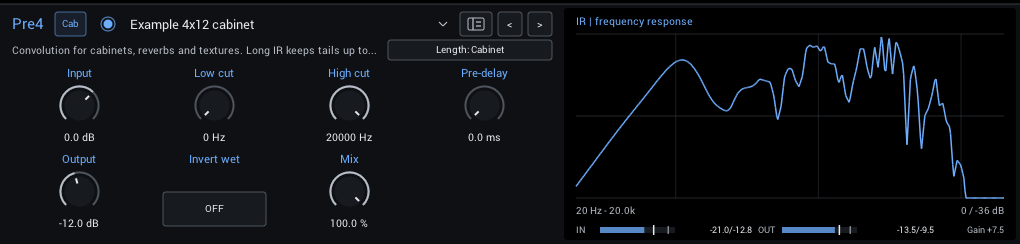
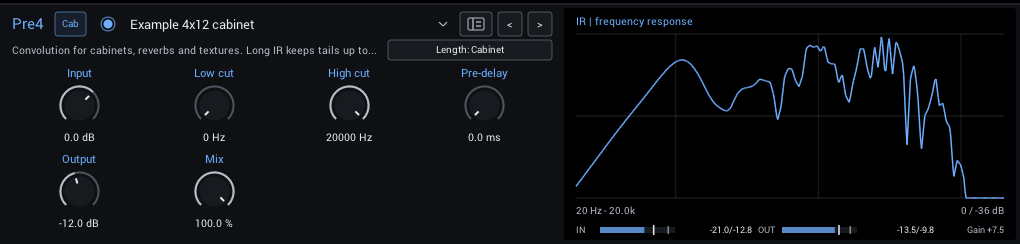
Remove wet polarity control from IR module

diff --git a/tests/IRControlsTests.h b/tests/IRControlsTests.h
@@ -5,62 +5,60 @@ void TestIRControls()
 {
   for (double rate : {44100., 48000., 96000.})
   {
-    // Delta IR: independent stereo dry paths and wet-only trims, inversion,
+    // Delta IR: independent stereo dry paths and wet-only trims,
     // blending and exact fractional pre-delay have a closed-form reference.
     for (double mix : {0., 25., 100.})
-      for (bool invert : {false, true})
-        for (double predelay : {0., 37.5})
+      for (double predelay : {0., 37.5})
+      {
+        auto prepared = std::make_unique<NAMStage::Prepared>();
+        prepared->effect = SlotEffect::CabinetIR;
+        AdaptiveIR::IRData data{{1.f}, rate};
+        prepared->ir = std::make_unique<AdaptiveIR>(data, rate, 512);
+        NAMStage stage;
+        stage.Publish(std::move(prepared));
+        stage.ResetStopped(rate, 512);
+        UtilityControls controls;
+        controls.irInput = 6.; controls.irMix = mix;
+        controls.irPredelay = predelay * 1000. / rate;
+        EQControls eq; eq.irLevel = -3.;
+        const double gain = std::pow(10., 3. * .05) * 48000. / rate;
+        std::array<double, 512> l{}, r{};
+        int position = 0;
+        for (int block = 0; block < 20; ++block)
         {
-          auto prepared = std::make_unique<NAMStage::Prepared>();
-          prepared->effect = SlotEffect::CabinetIR;
-          AdaptiveIR::IRData data{{1.f}, rate};
-          prepared->ir = std::make_unique<AdaptiveIR>(data, rate, 512);
-          NAMStage stage;
-          stage.Publish(std::move(prepared));
-          stage.ResetStopped(rate, 512);
-          UtilityControls controls;
-          controls.irInput = 6.; controls.irMix = mix; controls.irInvert = invert;
-          controls.irPredelay = predelay * 1000. / rate;
-          EQControls eq; eq.irLevel = -3.;
-          const double gain = (invert ? -1. : 1.) * std::pow(10., 3. * .05) * 48000. / rate;
-          std::array<double, 512> l{}, r{};
-          int position = 0;
-          for (int block = 0; block < 20; ++block)
+          const int count = std::array<int, 5>{1, 3, 127, 512, 64}[block % 5];
+          l.fill(0.); r.fill(0.);
+          if (!position) { l[0] = .25; r[0] = -.5; }
+          allocations = deletions = 0; tracking = true;
+          Eigen::internal::set_is_malloc_allowed(false);
+          stage.Process(l.data(), count, true, 30., -30., {}, eq, controls, r.data());
+          Eigen::internal::set_is_malloc_allowed(true);
+          tracking = false;
+          assert(stage.Latency() == 0 && allocations == 0 && deletions == 0);
+          for (int i = 0; i < count; ++i)
           {
-            const int count = std::array<int, 5>{1, 3, 127, 512, 64}[block % 5];
-            l.fill(0.); r.fill(0.);
-            if (!position) { l[0] = .25; r[0] = -.5; }
-            allocations = deletions = 0; tracking = true;
-            Eigen::internal::set_is_malloc_allowed(false);
-            stage.Process(l.data(), count, true, 30., -30., {}, eq, controls, r.data());
-            Eigen::internal::set_is_malloc_allowed(true);
-            tracking = false;
-            assert(stage.Latency() == 0 && allocations == 0 && deletions == 0);
-            for (int i = 0; i < count; ++i)
-            {
-              const int n = position + i;
-              const double wet = predelay == 0. ? (n == 0 ? 1. : 0.) : (n == 37 || n == 38 ? .5 : 0.);
-              const double expected = (n == 0 ? 1. - mix * .01 : 0.) + wet * gain * mix * .01;
-              assert(std::abs(l[i] - .25 * expected) < 2.e-7);
-              assert(std::abs(r[i] + .5 * expected) < 2.e-7);
-            }
-            position += count;
+            const int n = position + i;
+            const double wet = predelay == 0. ? (n == 0 ? 1. : 0.) : (n == 37 || n == 38 ? .5 : 0.);
+            const double expected = (n == 0 ? 1. - mix * .01 : 0.) + wet * gain * mix * .01;
+            assert(std::abs(l[i] - .25 * expected) < 2.e-7);
+            assert(std::abs(r[i] + .5 * expected) < 2.e-7);
           }
-          // Automation remains allocation-free, and bypass restores both dry channels.
-          controls.irInput = -36.; controls.irMix = 100. - mix;
-          controls.irPredelay = 500.; controls.irLowCut = 2000.; controls.irHighCut = 200.;
-          controls.irInvert = !invert;
-          for (int b = 0; b < 4; ++b)
-          {
-            l.fill(.1); r.fill(-.2);
-            allocations = deletions = 0; tracking = true;
-            stage.Process(l.data(), 512, false, 0., 0., {}, eq, controls, r.data());
-            tracking = false;
-            assert(allocations == 0 && deletions == 0);
-            if (b > 0)
-              for (int i = 0; i < 512; ++i) assert(l[i] == .1 && r[i] == -.2);
-          }
+          position += count;
         }
+        // Automation remains allocation-free, and bypass restores both dry channels.
+        controls.irInput = -36.; controls.irMix = 100. - mix;
+        controls.irPredelay = 500.; controls.irLowCut = 2000.; controls.irHighCut = 200.;
+        for (int b = 0; b < 4; ++b)
+        {
+          l.fill(.1); r.fill(-.2);
+          allocations = deletions = 0; tracking = true;
+          stage.Process(l.data(), 512, false, 0., 0., {}, eq, controls, r.data());
+          tracking = false;
+          assert(allocations == 0 && deletions == 0);
+          if (b > 0)
+            for (int i = 0; i < 512; ++i) assert(l[i] == .1 && r[i] == -.2);
+        }
+      }
     const auto magnitude = [&](double hz, double low, double high) {
       SlotIR processor;
       processor.Reset(rate);

diff --git a/NeuralAmpModeler/SlotIR.h b/NeuralAmpModeler/SlotIR.h
@@ -18,7 +18,7 @@ public:
     mWrite = 0;
     mHP.Reset(); mLP.Reset();
     mLow = 0.; mHigh = 20000.; mTime = 0.;
-    mHPMix = mLPMix = 0.; mPolarity = 1.;
+    mHPMix = mLPMix = 0.;
     mCounter = 0; mFirst = true;
     Update();
   }
@@ -27,10 +27,9 @@ public:
     const double low = std::clamp(c.irLowCut, 0., 2000.);
     const double high = std::clamp(c.irHighCut, 200., 20000.);
     const double time = std::clamp(c.irPredelay, 0., 500.) * .001 * mRate;
-    const double polarity = c.irInvert ? -1. : 1.;
     if (mFirst)
     {
-      mLow = low; mHigh = high; mTime = time; mPolarity = polarity;
+      mLow = low; mHigh = high; mTime = time;
       mHPMix = low > 0. ? 1. : 0.; mLPMix = high < 20000. ? 1. : 0.;
       Update(); mFirst = false;
     }
@@ -39,7 +38,6 @@ public:
       const bool changed = mLow != low || mHigh != high;
       mLow = Smooth(mLow, low); mHigh = Smooth(mHigh, high);
       mTime = Smooth(mTime, time);
-      mPolarity += std::clamp(polarity - mPolarity, -2. / (.005 * mRate), 2. / (.005 * mRate));
       if (mCounter == 0 && changed) Update();
       mCounter = (mCounter + 1) % 16;
       mHPMix = Smooth(mHPMix, low > 0. ? 1. : 0.);
@@ -54,7 +52,7 @@ public:
       const double hp = mHP.Tick(x);
       x += mHPMix * (hp - x);
       const double lp = mLP.Tick(x);
-      samples[i] = (x + mLPMix * (lp - x)) * mPolarity;
+      samples[i] = x + mLPMix * (lp - x);
     }
   }
 private:
@@ -71,7 +69,7 @@ private:
   std::vector<double> mDelay;
   size_t mWrite = 0;
   double mRate = 48000., mSmoothing = 0., mLow = 0., mHigh = 20000., mTime = 0.;
-  double mHPMix = 0., mLPMix = 0., mPolarity = 1.;
+  double mHPMix = 0., mLPMix = 0.;
   int mCounter = 0;
   bool mFirst = true;
 };

diff --git a/NeuralAmpModeler/EffectPresentation.h b/NeuralAmpModeler/EffectPresentation.h
@@ -102,11 +102,10 @@ inline const char* Help(SlotEffect e, int p, int mode = -1)
   switch (p)
   {
     case uIRInput: return "Gain into convolution. Changes only the wet signal; at Mix zero the original signal passes unchanged.";
-    case uIRMix: return "Linear dry/wet blend. Input, Output, cuts, Pre-delay and Invert wet affect only the wet signal. Use 100% on a send.";
+    case uIRMix: return "Linear dry/wet blend. Input, Output, cuts and Pre-delay affect only the wet signal. Use 100% on a send.";
     case uIRPredelay: return "Delay before the wet response, leaving dry timing unchanged. Separates reverb from the attack; automation bends the wet pitch.";
     case uIRLowCut: return "12 dB/octave high-pass on the wet response. Removes cabinet rumble or reverb low end; 0 Hz bypasses.";
     case uIRHighCut: return "12 dB/octave low-pass on the wet response. Tames cabinet fizz or darkens reverb and textures; 20000 Hz bypasses.";
-    case uIRInvert: return "Reverse the wet signal's polarity. Changes cancellation and colour when blended with dry audio or parallel lanes.";
     case uIRLength: return "Cabinet preserves the original 8192-sample limit. Long IR keeps up to 30 seconds for reverb and sound design. Switching reloads the file.";
     case uPedalCharacter: return effect_modes::pedalCharacterHelp[std::clamp(mode, 0, effect_modes::pedalCount - 1)];
     case uPedalStyle: return effect_modes::pedalHelp[std::clamp(mode, 0, effect_modes::pedalCount - 1)];

diff --git a/NeuralAmpModeler/EffectParameters.h b/NeuralAmpModeler/EffectParameters.h
@@ -231,8 +231,7 @@ enum UtilityParam
   uIRPredelay = 215,
   uIRLowCut = 216,
   uIRHighCut = 217,
-  uIRInvert = 218,
-  uIRLength = 219,
+  uIRLength = 218,
   kUtilityControls,
 };
 inline constexpr const char* kParamLowModes[]{"Cut", "Shelf"};
@@ -550,11 +549,10 @@ inline constexpr std::array<EffectParameter, kUtilityControls> kEffectParameters
    {"Parametric Shelf Gain", "Shelf gain", 0, -12, 12, .1, "dB", 3, false, 1., 5},
    {"Parametric Low Mode", "Low", 0, 0, 1, 1, "", 0, false, 1., 5},
    {"IR Input", "Input", 0, -36, 18, .1, "dB", 0, false, 1., 7},
-   {"IR Mix", "Mix", 100, 0, 100, .1, "%", 6, false, 1., 7},
+   {"IR Mix", "Mix", 100, 0, 100, .1, "%", 5, false, 1., 7},
    {"IR Pre-delay", "Pre-delay", 0, 0, 500, .1, "ms", 3, false, 2., 7},
    {"IR Low Cut", "Low cut", 0, 0, 2000, 1, "Hz", 1, false, 2., 7},
    {"IR High Cut", "High cut", 20000, 200, 20000, 1, "Hz", 2, true, 1., 7},
-   {"IR Invert", "Invert wet", 0, 0, 1, 1, "", 5, false, 1., 7},
    {"IR Length", "Length", 0, 0, 1, 1, "", 0, false, 1., 7}}};
 static_assert([] {
   for (int i = 0; i < kUtilityControls; ++i)
@@ -753,6 +751,5 @@ struct UtilityControls
   int blackMode = 0;
   std::array<double, 9> pedal{0., 9., 5500., 0., 180., 0., -6., 100., 0.};
   double irInput = 0., irMix = 100., irPredelay = 0., irLowCut = 0., irHighCut = 20000.;
-  bool irInvert = false;
   int irLength = 0;
 };

diff --git a/tests/clap_smoke.cpp b/tests/clap_smoke.cpp
@@ -856,7 +856,7 @@ int main(int argc, char** argv)
       shaped["SlotPaths"][slot] = irFile.string();
       shaped[prefix + "IR Input"] = 6.; shaped[prefix + "IR Mix"] = 25.;
       shaped[prefix + "IR Pre-delay"] = 37.5; shaped[prefix + "IR Low Cut"] = 200.;
-      shaped[prefix + "IR High Cut"] = 5000.; shaped[prefix + "IR Invert"] = 1.;
+      shaped[prefix + "IR High Cut"] = 5000.;
       shaped[prefix + "IR Length"] = 1.;
     }
     load(shaped);
@@ -2112,9 +2112,7 @@ int main(int argc, char** argv)
              before == kEffectParameters[p].maximum ? -25 : 25);
       assert(save().config()[key] != before);
     }
-    // Wet polarity is local; the length selector reloads the same resource on idle.
-    click(grid_layout::KnobX(5), grid_layout::ToggleY(5));
-    assert(save().config()["Pre 3 IR Invert"] == 1.);
+    // The length selector reloads the same resource on idle.
     host.dirty = false;
     click(optionX(uIRLength), grid_layout::optionsY);
     assert(save().config()["Pre 3 IR Length"] == 1. && host.dirty);

diff --git a/NeuralAmpModeler/ParameterLayout.h b/NeuralAmpModeler/ParameterLayout.h
@@ -53,7 +53,7 @@ struct Segment
 // {newGlobals, 0} or {0, newControls}, or grow the LAST segment's slotControls.
 // Never edit the counts of a released segment.
 // +1 slot control: Digital Black Hold (state schema 2).
-inline constexpr Segment segments[]{{83, 217}, {0, 9}, {0, 4}, {24, 0}, {0, 7}};
+inline constexpr Segment segments[]{{83, 217}, {0, 9}, {0, 4}, {24, 0}, {0, 6}};
 inline constexpr Segment released[]{{83, 216}}; // The 0.1.0 baseline layout
 
 constexpr int GlobalID(std::span<const Segment> table, int index)

diff --git a/tests/EffectPresentationTests.h b/tests/EffectPresentationTests.h
@@ -77,7 +77,7 @@ void TestEffectPresentation()
       occupied[position] = true;
     }
     assert(effect_presentation::Position(effect, uIRInput) == 0);
-    assert(effect_presentation::Position(effect, uIRMix) == 6);
+    assert(effect_presentation::Position(effect, uIRMix) == 5);
   }
   for (int p = 0; p < kUtilityControls; ++p)
     if (IsAlgorithmMode(p)) assert(effect_presentation::HeaderControl(p));

diff --git a/NeuralAmpModeler/ModulationMatrix.h b/NeuralAmpModeler/ModulationMatrix.h
@@ -36,7 +36,6 @@ void VisitSlotControls(C& c, Visit&& visit)
   u(uIRPredelay, t.irPredelay);
   u(uIRLowCut, t.irLowCut);
   u(uIRHighCut, t.irHighCut);
-  u(uIRInvert, t.irInvert);
   u(uIRLength, t.irLength);
   visit(kSlotEnabled, c.enabled);
   visit(kSlotIn, c.inputDB);

diff --git a/docs/modules/captures.md b/docs/modules/captures.md
@@ -42,7 +42,6 @@ Load a mono impulse response (`.wav`). Use **Length: Cabinet** for the original 
 | **High cut** | 200–20000 Hz | 20000 Hz | Wet low-pass, 12 dB/octave; 20000 bypasses. |
 | **Pre-delay** | 0–500 ms | 0 ms | Delays the wet response, leaving dry timing unchanged. |
 | **Output** | -36 to +18 dB | -18 dB | Wet level after convolution and cuts. Preserves the original cabinet gain. |
-| **Invert wet** | Off / On | Off | Reverses wet polarity for parallel blending and cancellation effects. |
 | **Mix** | 0–100% | 100% | Linear dry/wet blend; 0% passes the original signal unchanged. |
 
 **Display:** Cabinet shows the loaded response's frequency curve; Long IR shows its peak envelope over time. Both show the retained IR before wet controls, relative to its peak. Hover for its duration.
@@ -52,4 +51,4 @@ Load a mono impulse response (`.wav`). Use **Length: Cabinet** for the original 
 - Start at -18 dB Output and match the level with the strip below the editor.
 - For a reverb insert, select Long IR, start at 10–25% Mix, add 15–40 ms Pre-delay and use the cuts to keep the tail clear. On a send, use 100% Mix.
 - Input and Output change level, with no saturation. Input changes how strongly new audio excites the IR; Output also adjusts an already ringing tail.
-- Blend unusual resonances or textures with the dry signal. Invert wet changes cancellations at intermediate Mix settings; Pre-delay changes their spacing.
+- Blend unusual resonances or textures with the dry signal. Pre-delay changes the spacing of cancellations at intermediate Mix settings.

diff --git a/docs/modules/ir-processing.md b/docs/modules/ir-processing.md
@@ -28,8 +28,8 @@ or embedded in the rig.
 
 ## Wet controls and blending
 
-Input feeds convolution. Pre-delay and the 12 dB/octave cuts shape its wet output;
-Invert wet changes polarity. Output sets the wet level, and Mix linearly blends
+Input feeds convolution. Pre-delay and the 12 dB/octave cuts shape its wet output.
+Output sets the wet level, and Mix linearly blends
 that result with the unchanged dry input. At 0% Mix the dry signal is exact,
 regardless of the wet controls. At 100% only the processed response is heard.
 Input and Output are linear gain controls; Input affects new excitation while
@@ -38,7 +38,7 @@ Output can change an existing tail. Pre-delay automation can bend the wet pitch.
 For cabinets, keep 100% Mix and start at the original -18 dB Output. For a reverb
 insert, choose Long IR, lower Mix and add some Pre-delay to separate the tail from
 the attack. On a reverb send, keep 100% Mix. Cut low end to avoid rumble, or lower
-High cut to darken a bright tail. Invert wet is useful when exploring parallel
-cancellation and resonant sound shaping.
+High cut to darken a bright tail. Blend unusual responses with dry audio and
+adjust Pre-delay to explore parallel cancellation and resonant sound shaping.
 
 See [Captures & cabinets](captures.md#cabinet-ir) for ranges and starting settings.

diff --git a/CHANGELOG.md b/CHANGELOG.md
@@ -6,7 +6,7 @@ All notable user-facing changes to NAM Grid are documented here, newest first. S
 
 ### Added
 
-- IR convolution adds wet Input, Mix, Pre-delay, Low/High cut and polarity controls, plus a Long IR option for reverb and sound-design responses up to 30 seconds. Existing rigs keep their original cabinet length and sound. Long IR displays the tail envelope.
+- IR convolution adds wet Input, Mix, Pre-delay and Low/High cut controls, plus a Long IR option for reverb and sound-design responses up to 30 seconds. Existing rigs keep their original cabinet length and sound. Long IR displays the tail envelope.
 - Compressor and limiter graphs mark gain reduction beyond 16 dB with a red edge or tip; their numeric readouts continue to show the full reduction.
 - Cosmic Echo shows its delay-line network sketch below the measured response, with timing markers, density connections and modulation halos. Hover for the 4- or 16-line count and explanation.
 - Hover over a truncated module description to read its full text.

diff --git a/docs/development.md b/docs/development.md
@@ -164,7 +164,7 @@ It selects the backend during preparation without adding buffering latency.
 The default Cabinet length retains the released 8192-sample cap and gain.
 The opt-in Long IR identity retains up to 30 seconds and uses a small-partition
 head plus a large-partition tail. Length changes prepare and publish a replacement
-on the control thread. Wet trims, pre-delay, cuts and polarity precede the linear
+on the control thread. Wet trims, pre-delay and cuts precede the linear
 dry/wet blend; their defaults preserve the released cabinet sound.
 
 ## DSP sources and adaptations
